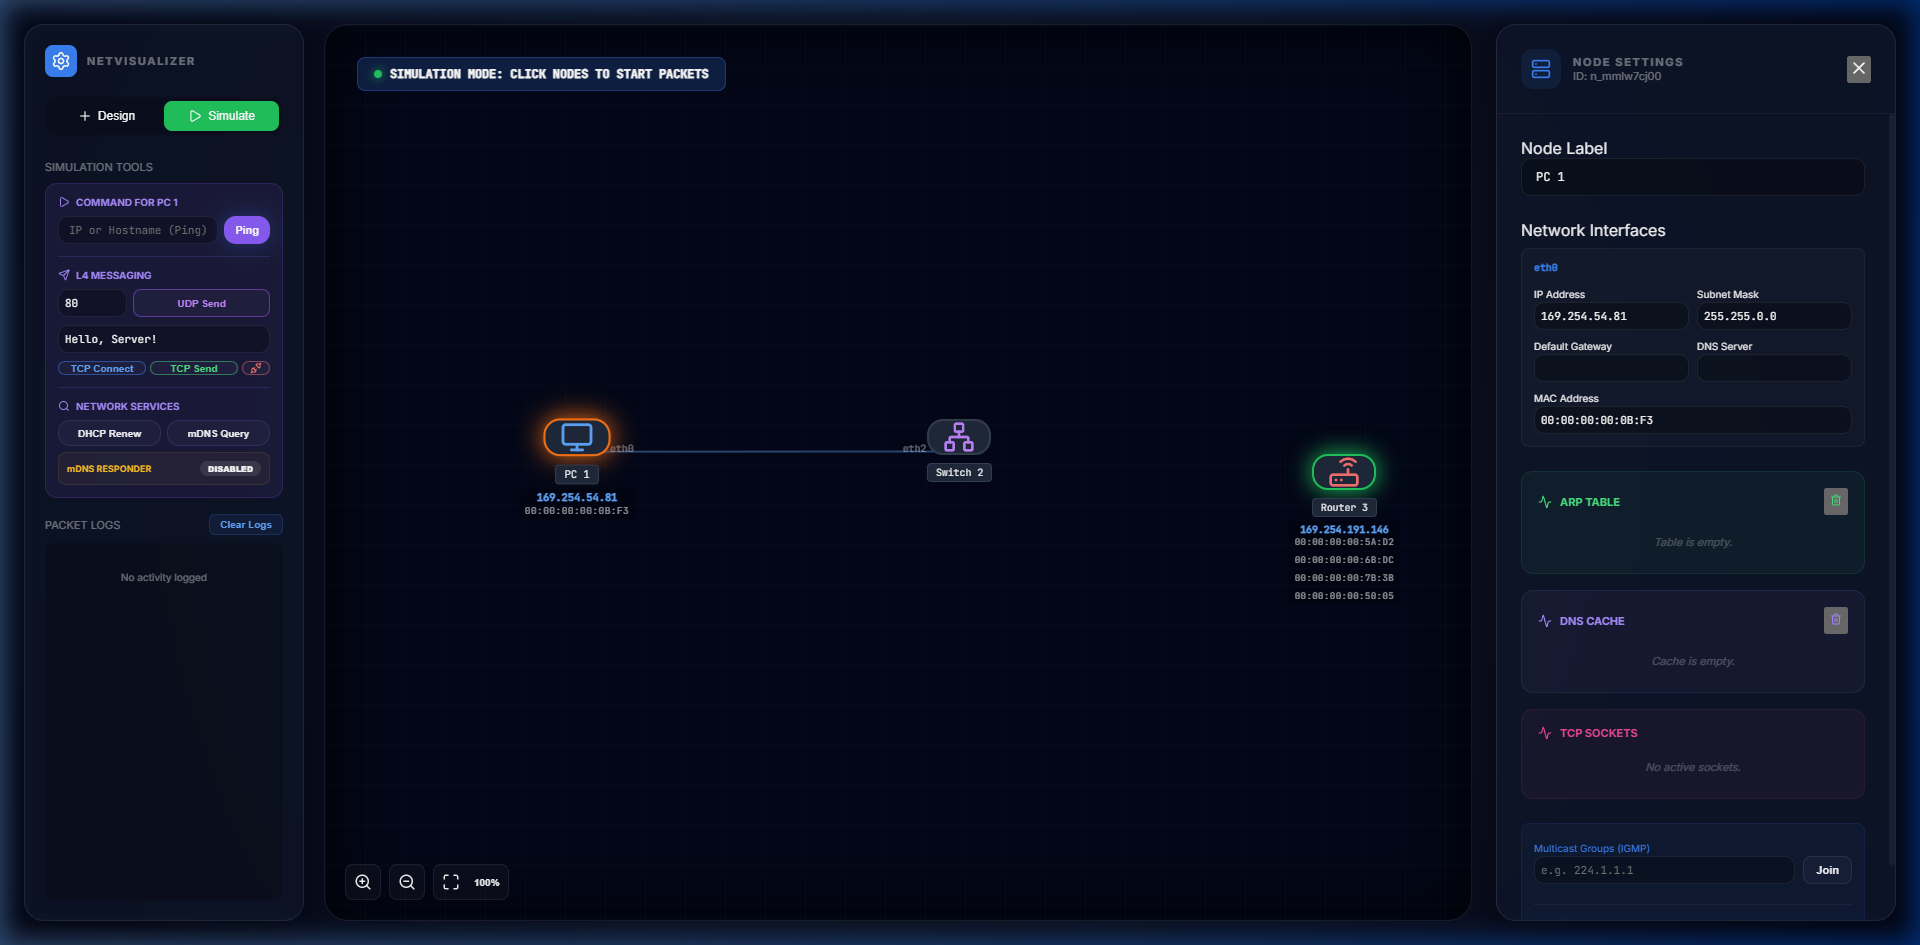
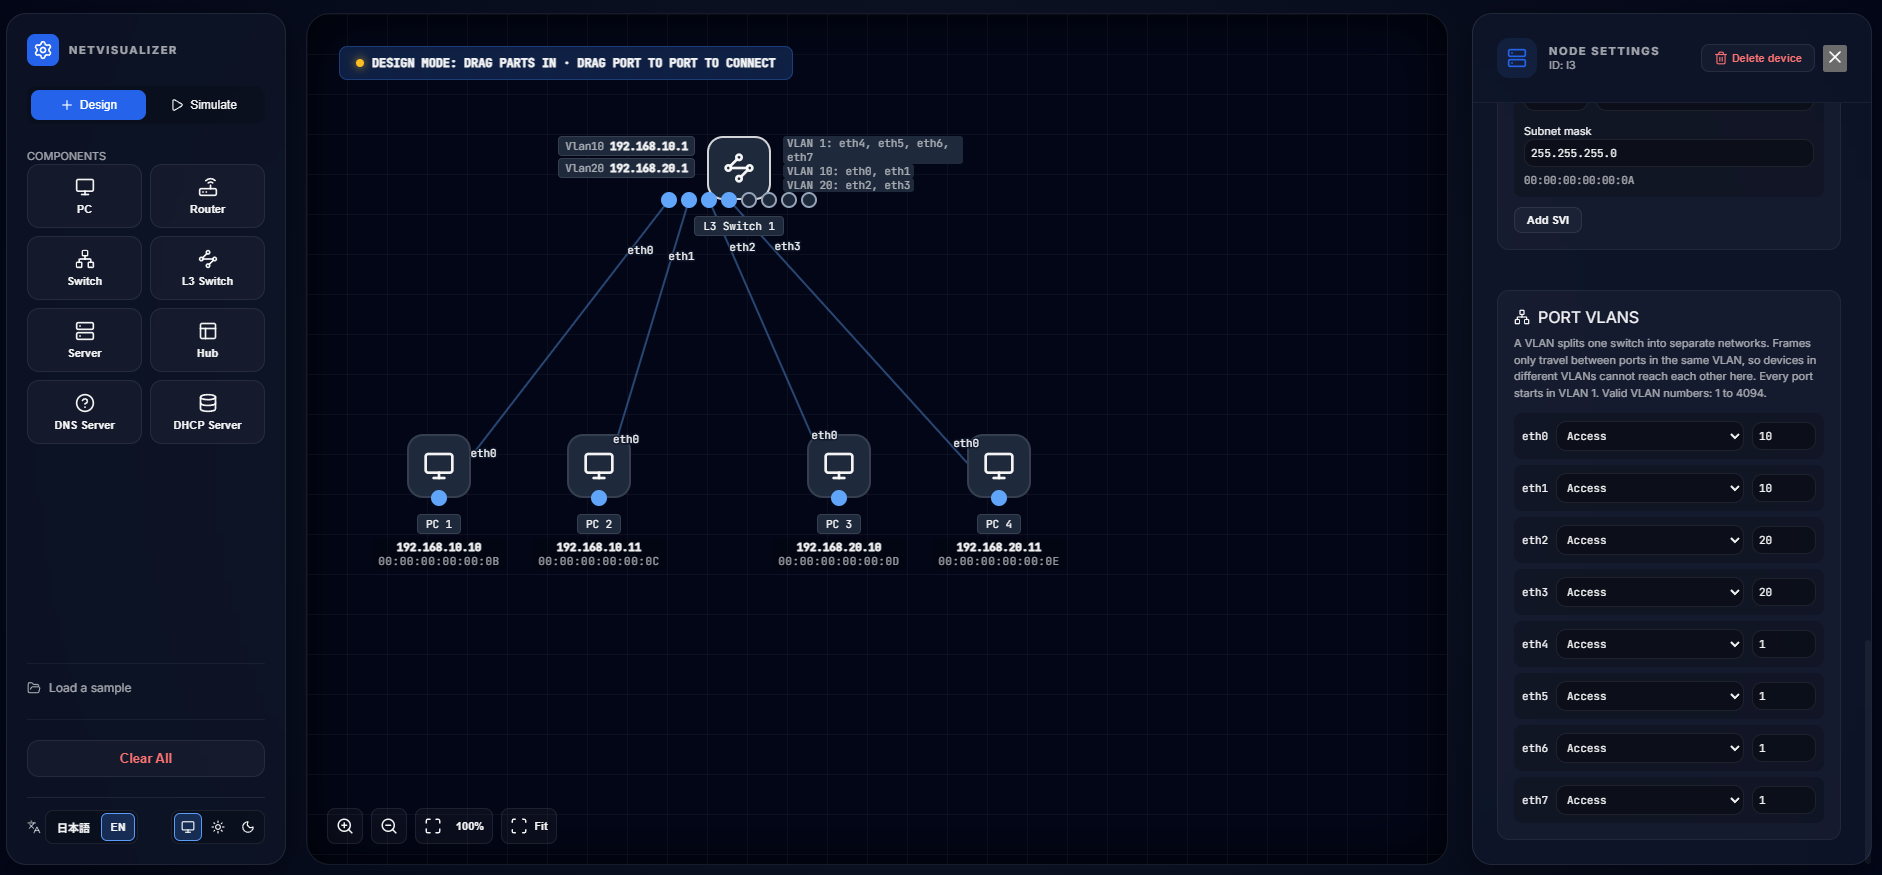
docs: add a current screenshot (sample 9) to the README

diff --git a/README.md b/README.md
@@ -4,6 +4,8 @@
 
 <video src="./docs/assets/ui_screenshot.mp4" controls muted autoplay loop style="max-width: 100%; border-radius: 10px; box-shadow: 0 4px 20px rgba(0,0,0,0.3);"></video>
 
+![Sample 9: an L3 switch routing between VLAN 10 and VLAN 20, with the SVI addresses and the port VLAN settings](./docs/assets/ui_screenshot.png)
+
 ## 🌟 Key Features
 
 ### 📡 Visual Network Building
